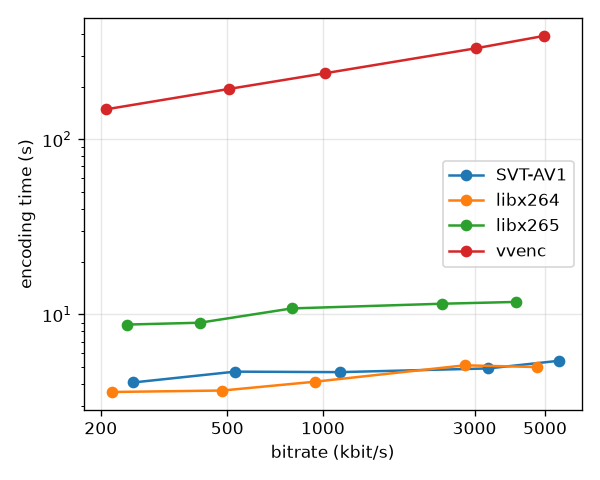
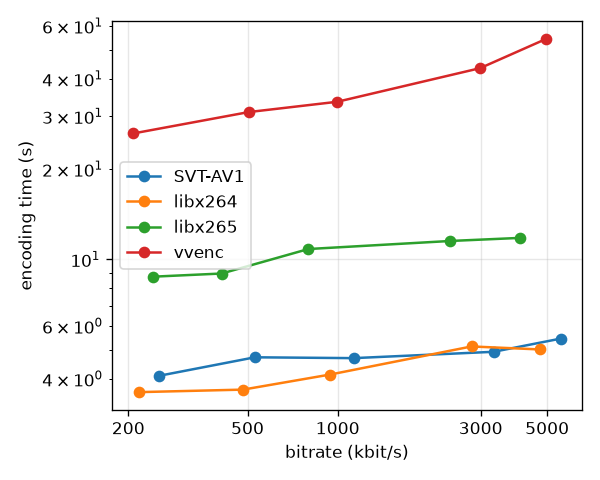
Update vvenc results and notes

diff --git a/codecs/index.html b/codecs/index.html
@@ -20,9 +20,6 @@
 <p>5 s clip of <code>input.mp4</code> (30 fps), once at 1080p and once scaled down to 720p, encoded at
 200k, 500k, 1M, 3M and 5M with libx264, libx265, SVT-AV1 and vvenc (VVC, preset <code>faster</code>).
 Time and energy were measured with CodeCarbon (energy on a Mac is only an estimate).</p>
-<p><b>Note:</b> vvenc was run with <code>-t 0</code> = a single thread, while the other codecs use several cores.
-So vvenc's time and energy are higher than they would be with its default settings.
-Quality is not affected.</p>
 <p>Jump to: <a href="#p1080">1080p</a> · <a href="#p720">720p</a> · <a href="#cmp">1080p vs 720p</a></p>
 
 <h2>DASH vs HLS</h2>
@@ -74,7 +71,7 @@ Quality is not affected.</p>
 <li>At the same bitrate, 720p looks better (higher VMAF), because the same bits are spread over fewer pixels.
 (VMAF compares each version with its own original, so this is not "720p is nicer than 1080p".)</li>
 <li>720p encodes in about half the time and energy: it has only 44% of the pixels.</li>
-<li>The ranking of the codecs stays the same at both resolutions.</li>
+<li>The overall picture is the same at both resolutions: SVT-AV1 and vvenc give the best quality at low bitrates, x264 is the fastest, and vvenc is the slowest and uses the most energy.</li>
 </ul>
 <p><a href="results_720p.csv">results_720p.csv</a> · <a href="WHAT_WE_DID.md">What we did (steps and commands)</a></p>
 </body>

diff --git a/codecs/WHAT_WE_DID.md b/codecs/WHAT_WE_DID.md
@@ -48,14 +48,13 @@ ffmpeg -i ../input.mp4 -t 5 -an -vf scale=1280:720 -pix_fmt yuv420p -r 30 ref720
 ffmpeg -i ref.y4m -c:v libx264   -b:v 1000k out.mp4            # x264  (H.264)
 ffmpeg -i ref.y4m -c:v libx265   -b:v 1000k out.mp4            # x265  (H.265)
 ffmpeg -i ref.y4m -c:v libsvtav1 -b:v 1000k out.mkv            # SVT-AV1
-vvencapp -i ref.y4m -b 1000k --preset faster -t 0 -o out.266   # vvenc (H.266 / VVC)
+vvencapp -i ref.y4m -b 1000k --preset faster -o out.266        # vvenc (H.266 / VVC)
 ```
 | Parameter | Meaning |
 |---|---|
 | `-c:v libx264` | which video codec (encoder) to use |
 | `-b:v 1000k` / `-b 1000k` | target bitrate: 1000 kbit/s (the encoder aims for it but misses a bit) |
 | `--preset faster` | vvenc speed setting: faster = quicker but a little worse compression |
-| `-t 0` | vvenc threads. **0 = one thread only.** Careful: the other codecs use several CPU cores, so vvenc's time and energy are higher than they would be with its default. We used the same setting for 1080p and 720p, so those two are still comparable. |
 | `-o out.266` | output file |
 
 Decoding (what we time and measure):
@@ -101,6 +100,6 @@ cd chriz133.github.io && git add codecs && git commit -m "Update codec page" && 
 Live at https://chriz133.github.io/codecs/
 
 ## Notes
-- vvenc is slow (about 1 frame/s at 1080p with one thread), so the clip is only 5 s.
+- vvenc is the slowest encoder (about 30-55 s for the 5 s clip at 1080p, the others take 4-12 s), so the clip is only 5 s.
 - If `measure.py` is stopped, start it again: it skips runs that are already in the csv.
 - Encoders do not hit the target bitrate exactly (e.g. SVT-AV1 asked 5000k, got 5546k).
